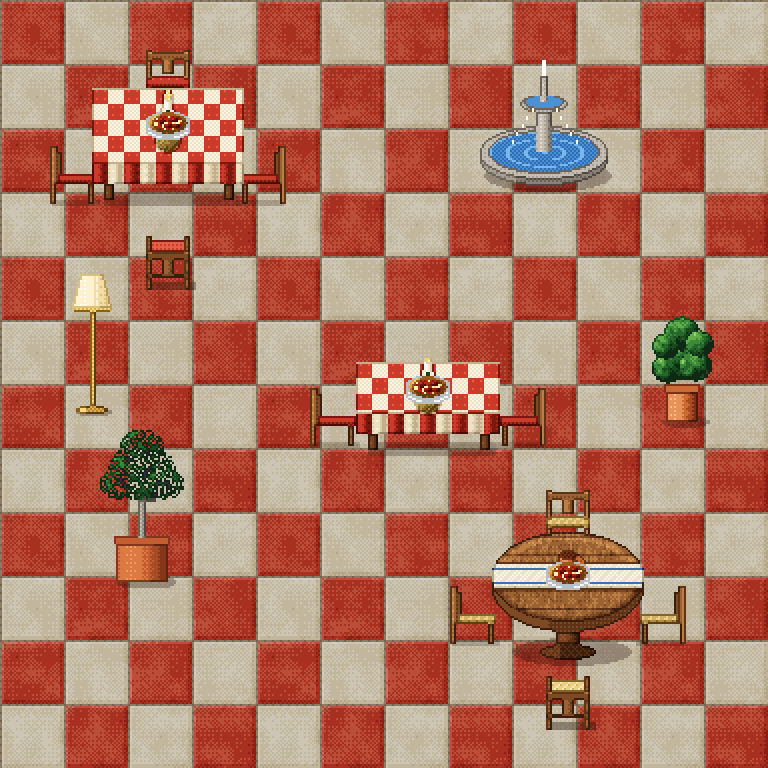
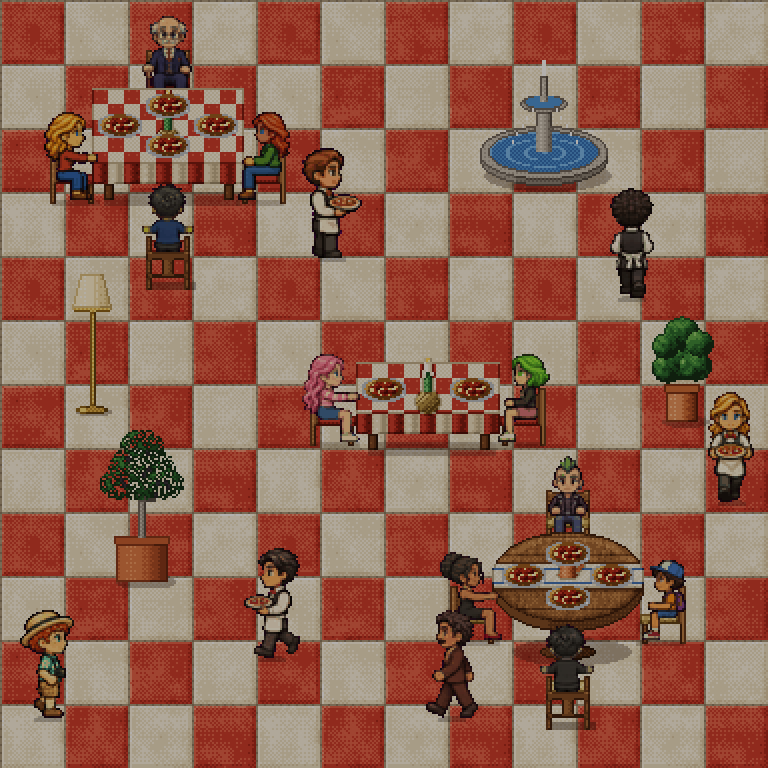
itch.io page kit: new background tile with the game's characters
The dining room from above now has customers eating at the tables, waiters
carrying pizzas and people walking, all from assets/cast drawn with the game's
own functions; a little darker so the page's content stands out. Chromium runs
with file access so the local sheets can be drawn into exported canvases.

Claude-Session: https://claude.ai/code/session_01X3CjJc1MM1px52YqiUbKah

diff --git a/itch/make_media.js b/itch/make_media.js
@@ -8,7 +8,7 @@ const OUT = __dirname, GAME = 'file://' + path.resolve(__dirname, '../index.html
 const save = (name, url) => fs.writeFileSync(path.join(OUT, name), Buffer.from(url.split(',')[1], 'base64'));
 
 (async () => {
-  const b = await chromium.launch();
+  const b = await chromium.launch({ args: ['--allow-file-access-from-files'] });   // the cast sheets are local files drawn into canvases that are exported
   const p = await b.newPage({ viewport: { width: 1280, height: 720 } });
   p.on('pageerror', e => console.log('ERR', e.message));
   await p.goto(GAME); await p.waitForTimeout(1500);
@@ -118,25 +118,42 @@ const save = (name, url) => fs.writeFileSync(path.join(OUT, name), Buffer.from(u
       x.drawImage(d, tx, ty + 2); x.drawImage(f, tx, ty);
       out.cover = c.toDataURL('image/png');
     }
-    // background tile: the dining room seen from above, seamless. The red and white check floor
-    // with tables (and a pizza on each), a fountain, an olive tree, a lamp and a plant, at the game's 2x;
-    // no piece crosses the tile's edge
+    // background tile: the dining room seen from above, seamless, at the game's 1x then doubled. The red and white
+    // check floor, tables with customers eating, waiters carrying pizzas, people walking, a fountain, an olive tree,
+    // a lamp and a plant; the people are the game's characters (assets/cast), drawn with the game's own functions.
+    // No piece crosses the tile's edge.
     {
       const A = ROOM_ART, im = new Image(); im.src = A.src; await im.decode();
-      const Z = 2, TW = 768, [c, x] = K(TW, TW), L = A.layout.items;
-      const fr = (k, X, Y) => { const f = A.frames[k]; x.drawImage(im, f[0], f[1], f[2], f[3], X, Y, f[2] * Z, f[3] * Z) };
-      for (let y = 0; y < TW; y += 256) for (let X = 0; X < TW; X += 256) fr('f_check', X, y);
-      x.fillStyle = 'rgba(20,8,2,.2)'; x.fillRect(0, 0, TW, TW);
-      const item = (k, X, Y, food) => {   // a room piece from its layout: parts and chairs in depth order
-        const it = L[k], ds = [];
-        (it.parts || []).forEach(q => ds.push([q[0] + (q[4] ? '_0' : ''), q[1], q[2], q[3]]));
-        (it.seats || []).forEach(s => { if (s.chair) ds.push(s.chair); if (s.back) ds.push(s.back) });
-        ds.sort((a, b) => a[3] - b[3]).forEach(d => fr(d[0], X + d[1] * Z, Y + d[2] * Z));
-        if (food && it.top) { const [tx, ty] = it.top; fr('plate', X + (tx - 12) * Z, Y + (ty - 7) * Z); fr('pizza', X + (tx - 12) * Z, Y + (ty - 9) * Z) }
+      const img = async src => { const i = new Image(); i.src = src; await i.decode(); return i };
+      const TW = 384, [c, x] = K(TW, TW), L = A.layout.items, T = 32;
+      const fr = (k, X, Y) => { const f = A.frames[k]; x.drawImage(im, f[0], f[1], f[2], f[3], Math.round(X), Math.round(Y), f[2], f[3]) };
+      for (let y = 0; y < TW; y += 128) for (let X = 0; X < TW; X += 128) fr('f_check', X, y);
+      const D = [], add = (z, f) => D.push({ z, f });   // everything that stands, drawn by depth
+      let look = 0; const LOOKS = [3, 11, 0, 16, 7, 19, 5, 13, 9, 2, 18, 6, 14, 1, 10, 20, 4, 12];
+      const item = async (k, X, Y, guests) => {   // a room piece from its layout; guests: customers at its seats, eating
+        const it = L[k];
+        (it.parts || []).forEach(q => add(Y + q[3], () => fr(q[0] + (q[4] ? '_0' : ''), X + q[1], Y + q[2])));
+        for (const st of it.seats || []) {
+          if (st.chair) add(Y + st.chair[3], () => fr(st.chair[0], X + st.chair[1], Y + st.chair[2]));
+          if (st.back) add(Y + st.back[3], () => fr(st.back[0], X + st.back[1], Y + st.back[2]));
+          if (!guests) continue;
+          const sim = await img(CAST + 'customers/' + castNN(LOOKS[look++ % LOOKS.length]) + '/seated.png');
+          add(Y + st.p[2], () => drawPilotSeated(x, sim, st.d, X + st.p[0], Y + st.p[1]));
+          const [tx, ty, rx, ry] = it.top, d = st.d, qx = d === 'right' ? tx - rx + 14 : d === 'left' ? tx + rx - 14 : (st.chair ? tx : st.p[0] + 16), qy = d === 'down' ? ty - ry + 9 : d === 'up' ? ty + ry - 9 : ty;
+          const tz = it.parts.find(q => q[0].startsWith('t_'))[3];
+          add(Y + tz + .2, () => fr('pizza', X + Math.round(qx) - 12, Y + Math.round(qy) - 8));
+        }
       };
-      item('xadrez4', 40, 40, 1); item('fonte', 480, 60); item('xadrez2', 300, 330, 1); item('vaso', 650, 360);
-      item('candeeiro', 60, 350); item('oliveira', 110, 520); item('redonda', 440, 480, 1);
-      out.background = c.toDataURL('image/png');
+      const foot = async (src, row, col, X, Y) => { const s = await img(src); add(Y + T, () => drawPilotFoot(x, s, src, row, col, X, Y)) };
+      await item('xadrez4', 20, 20, 1); await item('fonte', 240, 30); await item('xadrez2', 150, 165, 1); await item('vaso', 325, 180);
+      await item('candeeiro', 30, 175); await item('oliveira', 55, 260); await item('redonda', 220, 240, 1);
+      // waiters (rows: down/right/up/left, empty then carrying; columns: standing, walk x4) and customers walking
+      await foot(CAST + 'waiters/01/service.png', 3, 2, 150, 100); await foot(CAST + 'waiters/02/service.png', 1, 1, 350, 222);
+      await foot(CAST + 'waiters/03/service.png', 7, 3, 120, 300); await foot(CAST + 'waiters/04/service.png', 5, 2, 300, 120);
+      await foot(CAST + 'customers/' + castNN(8) + '/walk.png', 1, 2, 8, 330); await foot(CAST + 'customers/' + castNN(15) + '/walk.png', 3, 1, 210, 330);
+      D.sort((a, b) => a.z - b.z).forEach(d => d.f());
+      x.fillStyle = 'rgba(20,8,2,.32)'; x.fillRect(0, 0, TW, TW);   // darker, so the page's content stands out
+      out.background = up(c, 2).toDataURL('image/png');
     }
     // the pizza images, for the screenshots' menu
     out.sizes = { logo: out.logoSize };

diff --git a/itch/PAGE.md b/itch/PAGE.md
@@ -10,7 +10,7 @@ Everything the itch.io page needs. The images are made by `node itch/make_media.
 | `cover.png` | The older cover drawn by `make_media.js`, kept as a spare | 630 × 500 |
 | `banner-main.png` | Edit game › Theme › **Banner**, the one in use: the chef by the oven and the slogan *Build your own little pizza empire.* (made with ChatGPT, not by the script; keep it when re-running `make_media.js`) | 2000 × 667 |
 | `banner.png` | The older banner drawn by `make_media.js` (planks and pizzas), kept as a spare | 1920 × 480 |
-| `background.png` | Edit game › Theme › **Background image**, set to *tiled* (the dining room from above: red and white check floor, tables, a fountain; seamless) | 768 × 768 |
+| `background.png` | Edit game › Theme › **Background image**, set to *tiled* (the dining room from above, seamless: red and white check floor, customers eating at the tables, waiters carrying pizzas, a fountain; the game's characters) | 768 × 768 |
 | `logo.png` | Transparent logo for the description, the devlog, social posts, Discord (not an itch field) | 1108 × 380 |
 | `shot-1.png` … `shot-7.png` | Edit game › **Screenshots**, in this order: kitchen, menu, the day, room, contest, city, shop (team and bank) | 1280 × 720 |
 | `head-cook.png`, `head-run.png`, `head-grow.png`, `head-compete.png`, `head-also.png` | Pictures inside the **description**, one above each section (pixel-art headings, transparent) | ~700 × 80 |
